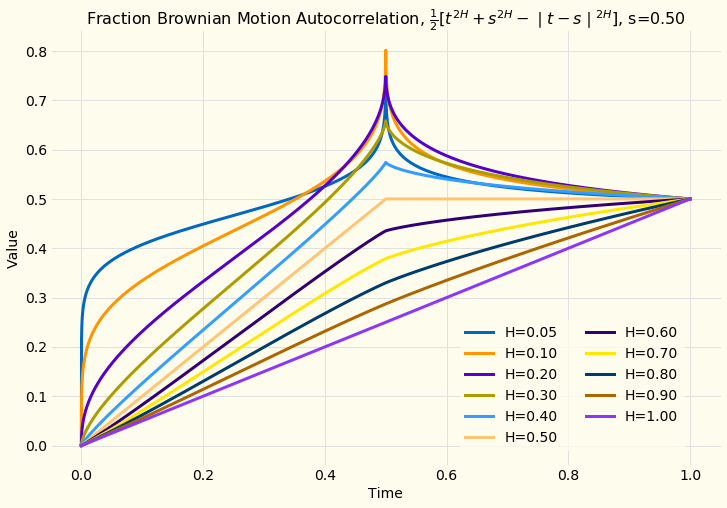
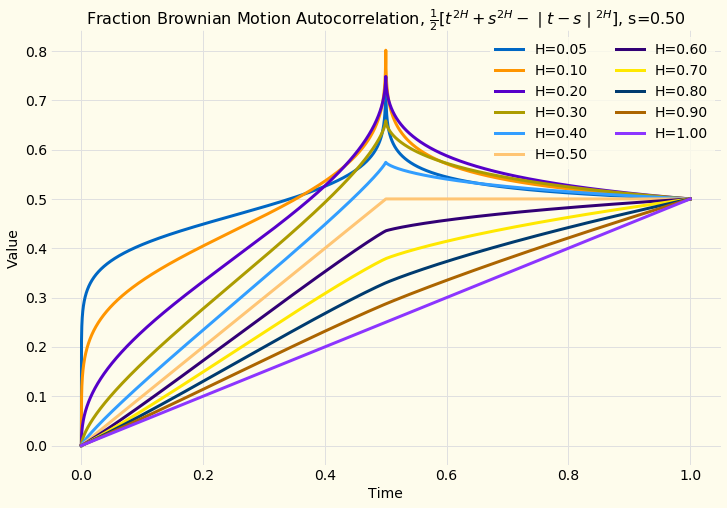
finished fbm parameter plots

diff --git a/hydrogen_notebooks/algorithmic_trading/simulation/fractional_brownian_motion_parameters.py b/hydrogen_notebooks/algorithmic_trading/simulation/fractional_brownian_motion_parameters.py
@@ -20,7 +20,7 @@ def fbm_variance(H, time):
 def fbm_autocorrelation(H, s, time):
     return 0.5*(time**(2.0*H) + s**(2.0*H) - numpy.abs(time - s)**(2.0*H))
 
-def fbm_autocorrelation_plot(H, s, time, file_name):
+def fbm_autocorrelation_plot(H_vals, s, time, file_name):
     figure, axis = pyplot.subplots(figsize=(12, 8))
     axis.set_xlabel("Time")
     axis.set_ylabel("Value")
@@ -29,7 +29,7 @@ def fbm_autocorrelation_plot(H, s, time, file_name):
     for H in H_vals:
         axis.plot(time, fbm_autocorrelation(H, s, time), label=f"H={format(H, '1.2f')}")
 
-    axis.legend(ncol=2, bbox_to_anchor=(0.6, 0.35))
+    axis.legend(ncol=2)
     config.save_post_asset(figure, "brownian_motion", file_name)
 
 # %%
@@ -56,14 +56,18 @@ config.save_post_asset(figure, "brownian_motion", "fractional_brownian_motion_va
 
 # %%
 
+s = 0.25
+fbm_autocorrelation_plot(H_vals, s, time, "fractional_brownian_motion_autocorrelation_0.25")
+
+# %%
+
 s = 0.5
-fbm_autocorrelation_plot(H, s, time, "fractional_brownian_motion_autocorrelation_0.5")
+fbm_autocorrelation_plot(H_vals, s, time, "fractional_brownian_motion_autocorrelation_0.5")
 
 # %%
 
 s = 1.0
-fbm_autocorrelation_plot(H, s, time, "fractional_brownian_motion_autocorrelation_1.0")
-
+fbm_autocorrelation_plot(H_vals, s, time, "fractional_brownian_motion_autocorrelation_1.0")
 
 # %%
 
@@ -72,7 +76,17 @@ tmax = 1000.0
 Δt = 0.01
 nsteps = int(tmax/Δt)
 time = numpy.linspace(0.0, tmax, nsteps)
+H_vals = [0.05, 0.1, 0.2, 0.3, 0.4, 0.5]
+
+fbm_autocorrelation_plot(H_vals, s, time, "fractional_brownian_motion_autocorrelation_long_time_low_H_1.0")
 
 # %%
 
-fbm_autocorrelation_plot(H, s, time, "fractional_brownian_motion_autocorrelation_long_time_1.0")
+s = 1.0
+tmax = 1000.0
+Δt = 0.01
+nsteps = int(tmax/Δt)
+time = numpy.linspace(0.0, tmax, nsteps)
+H_vals = [0.6, 0.7, 0.8, 0.9, 1.0]
+
+fbm_autocorrelation_plot(H_vals, s, time, "fractional_brownian_motion_autocorrelation_long_time_high_H_1.0")
